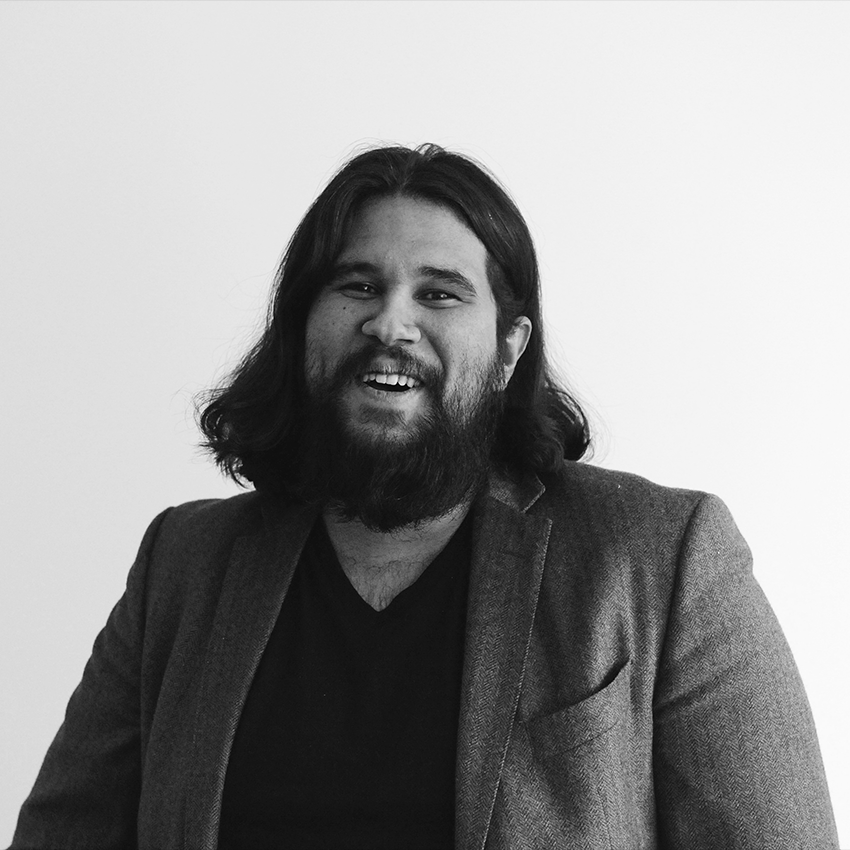
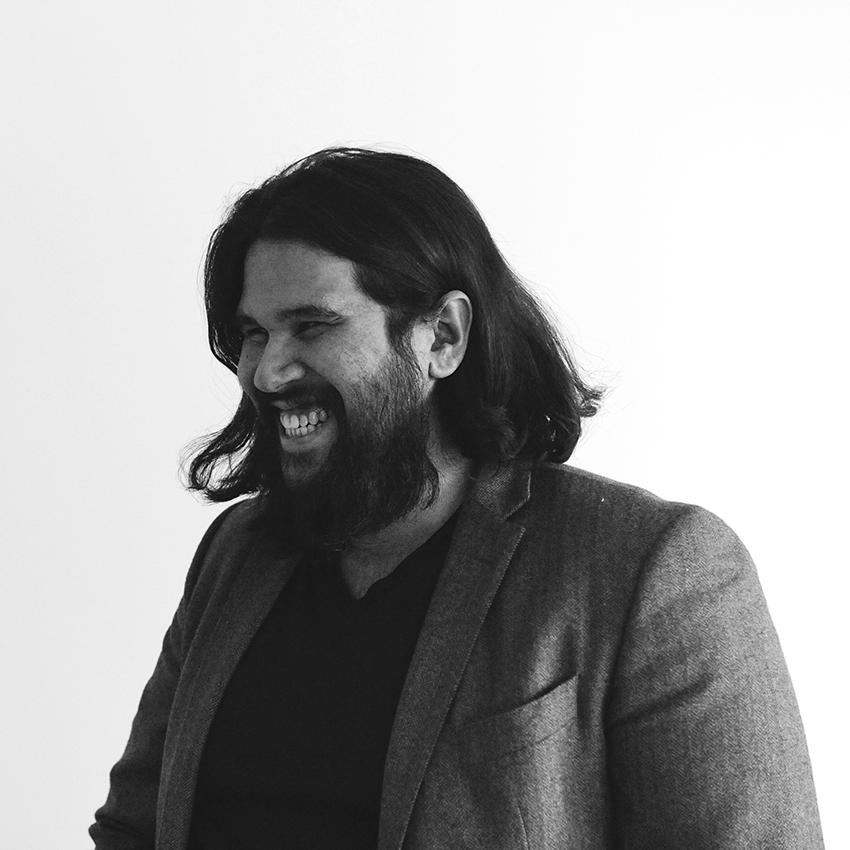
changes chamo picture and adds quirky cursor

Changed region(s): [[0.0, 0.1529, 1.0, 1.0], [0.3059, 0.7035, 0.3365, 0.7647]]

diff --git a/css/style.css b/css/style.css
@@ -704,6 +704,11 @@ footer {
 
 .team-mate img, .case-study img {
   width: 100%;
+  cursor: url('../img/01.png'), auto;
+}
+
+.team-mate img:hover, .case-study img:hover {
+  cursor: url('../img/01.png'), auto;
 }
 
 blockquote {
